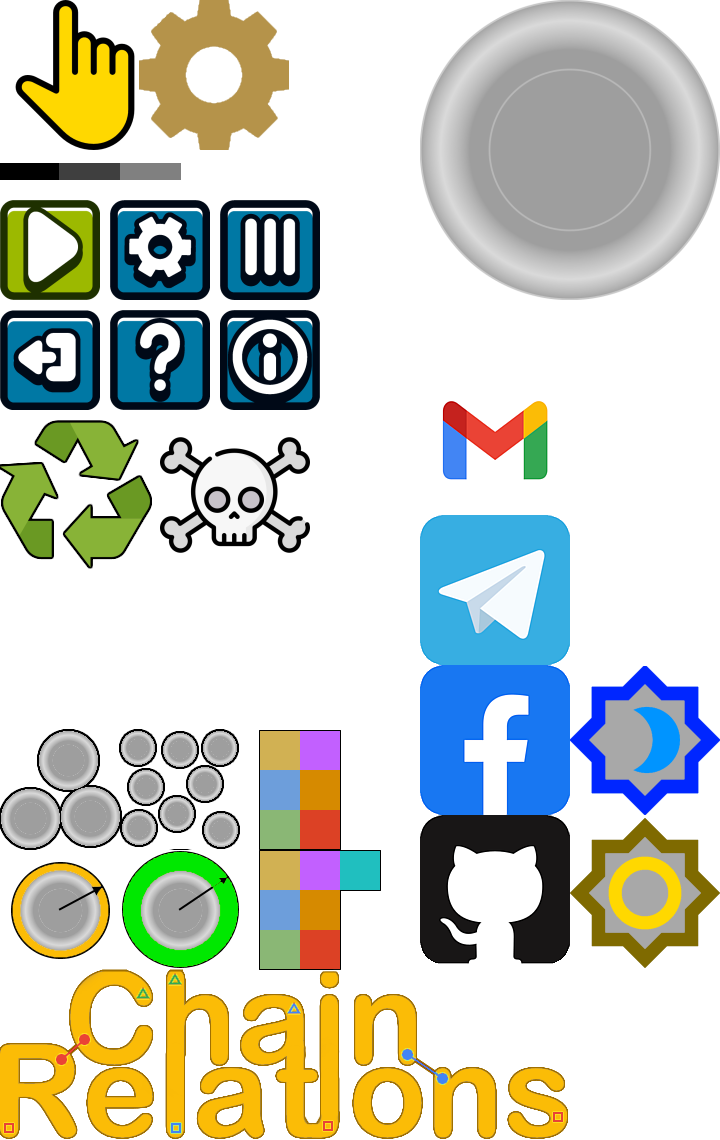
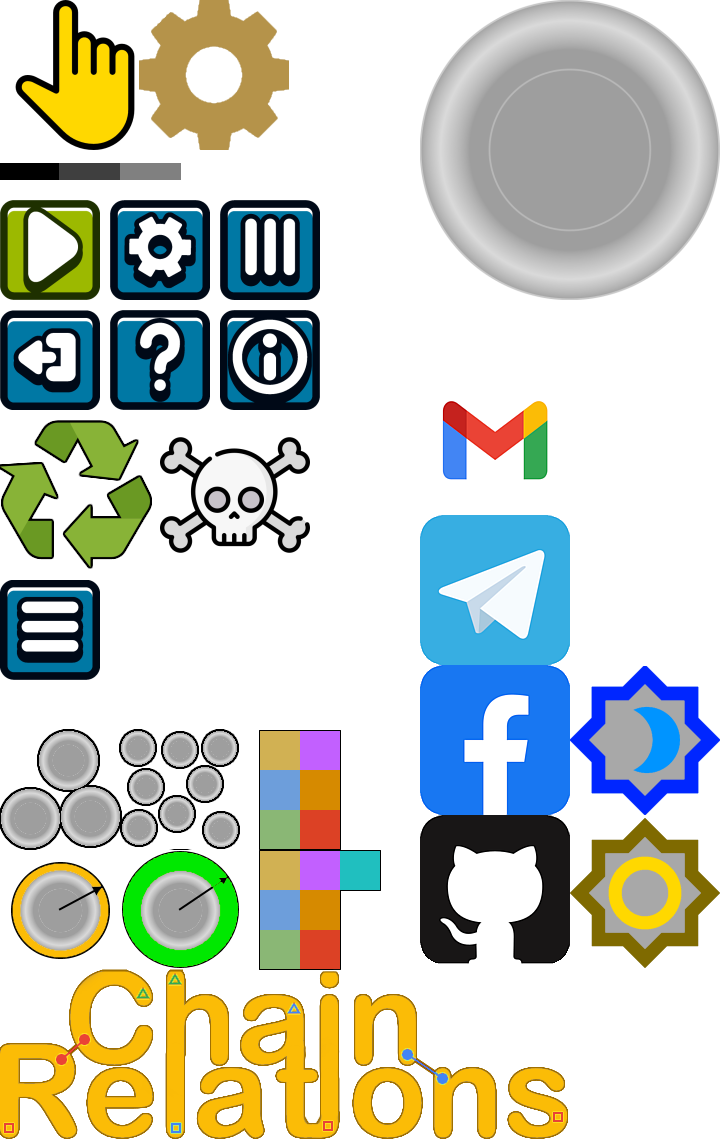
Critical control buttons gathered into pop-up menu panel

Changed region(s): [[0.0, 0.4912, 0.1528, 0.614]]

diff --git a/core/src/com/andrzejn/chainrelations/GameScreen.kt b/core/src/com/andrzejn/chainrelations/GameScreen.kt
@@ -32,11 +32,12 @@ class GameScreen(
 
     private val ball = Sprite(ctx.ball)
     private val play = Sprite(ctx.play).also { it.setAlpha(0.8f) }
-    private val home = Sprite(ctx.settings).also { it.setAlpha(0.8f) }
+    private val settings = Sprite(ctx.settings).also { it.setAlpha(0.8f) }
     private val help = Sprite(ctx.help).also { it.setAlpha(0.8f) }
     private val exit = Sprite(ctx.exit).also { it.setAlpha(0.8f) }
     private val hit = Sprite(ctx.hit).also { it.setAlpha(0.8f) }
     private val hand = Sprite(ctx.hand).also { it.setAlpha(0.6f) }
+    private val menu = Sprite(ctx.menu).also { it.setAlpha(0.8f) }
 
     /**
      * The input adapter instance for this screen
@@ -101,11 +102,19 @@ class GameScreen(
         val buttonSize = ctx.wc.buttonSize
         val fontHeight = ctx.wc.fontHeight
         ctx.score.setCoords(ctx.wc.fontHeight)
-        play.setBounds(5f, fontHeight + 5 * buttonSize, buttonSize, buttonSize)
         help.setBounds(5f, fontHeight + 3 * buttonSize, buttonSize, buttonSize)
         hit.setBounds(5f, fontHeight + buttonSize, buttonSize, buttonSize)
-        exit.setBounds(width - 5f - buttonSize, fontHeight + buttonSize, buttonSize, buttonSize)
-        home.setBounds(width - 5f - buttonSize, fontHeight + 3 * buttonSize, buttonSize, buttonSize)
+
+        play.setBounds(width - 10f - 2 * buttonSize, fontHeight + 8 * buttonSize + 10, 2 * buttonSize, 2 * buttonSize)
+        settings.setBounds(
+            width - 10f - 2 * buttonSize,
+            fontHeight + 5 * buttonSize + 10,
+            2 * buttonSize,
+            2 * buttonSize
+        )
+        exit.setBounds(width - 10f - 2 * buttonSize, fontHeight + 2 * buttonSize + 10, 2 * buttonSize, 2 * buttonSize)
+
+        menu.setBounds(width - 5f - buttonSize, fontHeight + buttonSize, buttonSize, buttonSize)
     }
 
     /**
@@ -165,6 +174,8 @@ class GameScreen(
         if (suitableTargets?.isEmpty() == true) cleanDragState(false)
     }
 
+    private var isMenuDisplayed = false
+
     /**
      * Invoked on each screen rendering. Recalculates ball moves, invokes timer actions and draws rthe screen.
      */
@@ -223,20 +234,31 @@ class GameScreen(
             )
         }
         // Draw buttons, scores and hand sprite on show-a-move
-        if (world.balls.size <= 6) ctx.sd.filledRectangle(
-            play.x - 5,
-            play.y - 5,
-            play.width + 10,
-            play.height + 10,
-            ctx.theme.scorePoints
-        )
-        play.draw(ctx.batch)
         help.draw(ctx.batch)
         hit.draw(ctx.batch)
-        exit.draw(ctx.batch)
-        home.draw(ctx.batch)
         ctx.score.draw(ctx.batch)
-        if (inShowAMove) hand.draw(ctx.batch)
+        if (inShowAMove)
+            hand.draw(ctx.batch)
+        else if (isMenuDisplayed) {
+            ctx.sd.filledRectangle(
+                exit.x - 10,
+                exit.y - 10,
+                exit.width + 20,
+                exit.height * 4 + 20,
+                ctx.theme.gameBorders
+            )
+            if (world.balls.size <= 6) ctx.sd.filledRectangle(
+                play.x - 5,
+                play.y - 5,
+                play.width + 10,
+                play.height + 10,
+                ctx.theme.scorePoints
+            )
+            play.draw(ctx.batch)
+            settings.draw(ctx.batch)
+            exit.draw(ctx.batch)
+        }
+        menu.draw(ctx.batch)
         if (ctx.batch.isDrawing) ctx.batch.end()
     }
 
@@ -306,10 +328,10 @@ class GameScreen(
         }
 
         Timeline.createSequence().push(Tween.call { _, _ ->
-                hand.setPosition(
-                    help.x + help.width / 2 - hand.width / 2, help.y + help.height / 2 - hand.height
-                )
-            })
+            hand.setPosition(
+                help.x + help.width / 2 - hand.width / 2, help.y + help.height / 2 - hand.height
+            )
+        })
             .push(Tween.to(hand, TW_POS_XY, 1f).target(dF.ball.coord.x - hand.width / 2, dF.ball.coord.y - hand.height))
             .push(Tween.call { _, _ -> pointTheBall(dF.ball) }).setCallback { _, _ -> showAMoveMiddle(dF) }
             .start(ctx.tweenManager)
@@ -340,16 +362,16 @@ class GameScreen(
             return
         }
         Timeline.createSequence().push(
-                Tween.to(hand, TW_POS_XY, 1f).target(dT.coord.x - hand.width / 2, dT.coord.y - hand.height)
-            ).pushPause(0.2f).push(Tween.call { _, _ ->
-                val dF = dragFrom
-                if (dF != null) {
-                    world.addConnector(dF, dT)
-                    thereWasAMove = true
-                }
-                cleanDragState(true)
-                inShowAMove = false
-            }).start(ctx.tweenManager)
+            Tween.to(hand, TW_POS_XY, 1f).target(dT.coord.x - hand.width / 2, dT.coord.y - hand.height)
+        ).pushPause(0.2f).push(Tween.call { _, _ ->
+            val dF = dragFrom
+            if (dF != null) {
+                world.addConnector(dF, dT)
+                thereWasAMove = true
+            }
+            cleanDragState(true)
+            inShowAMove = false
+        }).start(ctx.tweenManager)
     }
 
     /**
@@ -377,9 +399,9 @@ class GameScreen(
                 .none { c -> c.inSocket.ball == pB || c.outSocket.ball == pB }
                     // not connected to the pointed ball yet
                     && (if (dF is InSocket) b.outSock else b.inSock).any { s ->
-                    s.conn == null && s.color == dF.color && s.absDrawCoord()
-                        .dst(dragFromCoord) < maxConnLen * ctx.wc.radius
-                } // and matching free connector in range
+                s.conn == null && s.color == dF.color && s.absDrawCoord()
+                    .dst(dragFromCoord) < maxConnLen * ctx.wc.radius
+            } // and matching free connector in range
         }.toSet()
     }
 
@@ -429,12 +451,18 @@ class GameScreen(
                 }
             }
             cleanDragState(true)
+            if (isMenuDisplayed) {
+                isMenuDisplayed = false
+                when {
+                    buttonTouched(v, play) -> newGame(false)
+                    buttonTouched(v, exit) -> Gdx.app.exit()
+                    buttonTouched(v, settings) -> ctx.game.setScreen<HomeScreen>()
+                    buttonTouched(v, menu) -> isMenuDisplayed = false
+                }
+            } else if (buttonTouched(v, menu)) isMenuDisplayed = true
             when {
-                buttonTouched(v, play) -> newGame(false)
-                buttonTouched(v, exit) -> Gdx.app.exit()
                 buttonTouched(v, hit) -> world.randomHit()
                 buttonTouched(v, help) -> showAMove()
-                buttonTouched(v, home) -> ctx.game.setScreen<HomeScreen>()
             }
             return super.touchUp(screenX, screenY, pointer, button)
         }

diff --git a/core/src/com/andrzejn/chainrelations/Context.kt b/core/src/com/andrzejn/chainrelations/Context.kt
@@ -170,6 +170,7 @@ class Context(
     val colors7: TextureRegion get() = texture("colors7")
     val recycle: TextureRegion get() = texture("recycle")
     val death: TextureRegion get() = texture("death")
+    val menu: TextureRegion get() = texture("menu")
 
     /**
      * Create a bitmap font with given size, base color etc. from the provided TrueType font.
